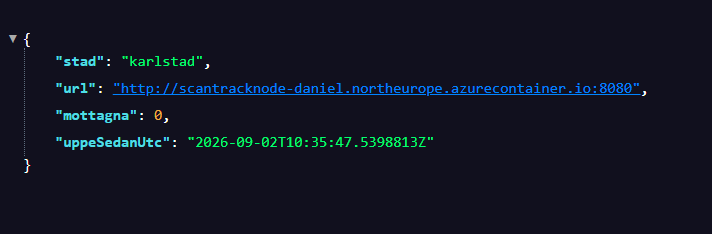
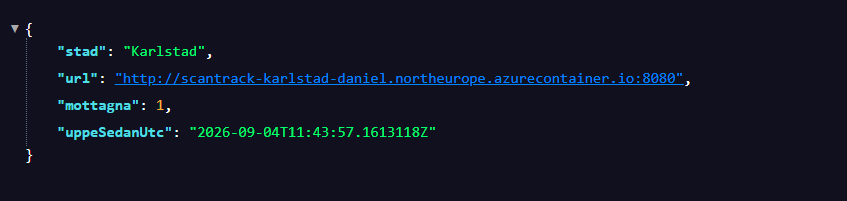
uppdaterad rapport

diff --git a/rapport-daniel.md b/rapport-daniel.md
@@ -75,12 +75,13 @@ Livelogg vid skickande och mottagande av paket
 ## Individuell reflektion
 
 - **Vad var svårast?**
-  Det svåraste var att få alla delar i lösningen att fungera tillsammans. Att bygga själva containern var relativt tydligt, men när noden skulle kommunicera med registret och andra noder blev det fler saker att hålla reda på. Det kunde till exempel vara svårt att veta om ett fel berodde på koden, Docker-imagen, miljövariablerna eller själva deploymenten i Azure. Felsökningen blev därför en viktig del av arbetet.
+  Det svåraste var egentligen inte någon enskild teknisk del, utan att i början sätta sig in i repot och förstå hur koden och de olika delarna hängde ihop. Jag valde därför att lägga tid på att först få en bra överblick över projektets struktur och flöde innan jag började göra ändringar. Det gjorde resten av arbetet enklare eftersom jag då hade en tydligare bild av vad varje del gjorde och hur de påverkade varandra.
 
 - **Vad förstår du nu som du inte förstod innan?**
   Jag förstår nu bättre hur Docker-images och containers fungerar, hur miljövariabler skickas in till en container och hur en container publiceras via ACR och körs i ACI. Jag har också fått en tydligare förståelse för hela flödet från lokal kod till en körande tjänst i molnet. Tidigare såg jag Docker, ACR och ACI mer som separata delar, men nu förstår jag bättre hur de hänger ihop i samma deploymentflöde.
 
 - **Vad skulle du ha gjort annorlunda?**
   Jag hade testat varje del mer separat innan jag kopplade ihop hela lösningen. Det hade gjort det enklare att avgöra var ett fel faktiskt låg och minskat tiden som gick åt till felsökning. Jag hade även använt en user-assigned Managed Identity för att låta ACI hämta imagen från ACR, i stället för att skicka med användarnamn och lösenord till registret i skriptet. Det hade varit en säkrare lösning eftersom man då slipper hantera dessa autentiseringsuppgifter direkt i deploymentflödet.
+  
 - **Hur planerades projektet?**
   Jag ville först få en övergripande bild av hur hela lösningen skulle fungera och hur de olika delarna hängde ihop. Därefter arbetade jag stegvis och började med att få noden att fungera lokalt innan jag flyttade ut den i molnet. Arbetet delades upp i mindre delar: bygga och testa Docker-imagen, publicera den till ACR, starta noden i ACI, registrera noden mot registret och till sist testa kommunikationen. Det gjorde det lättare att fokusera på en del i taget och successivt bygga upp hela lösningen.
